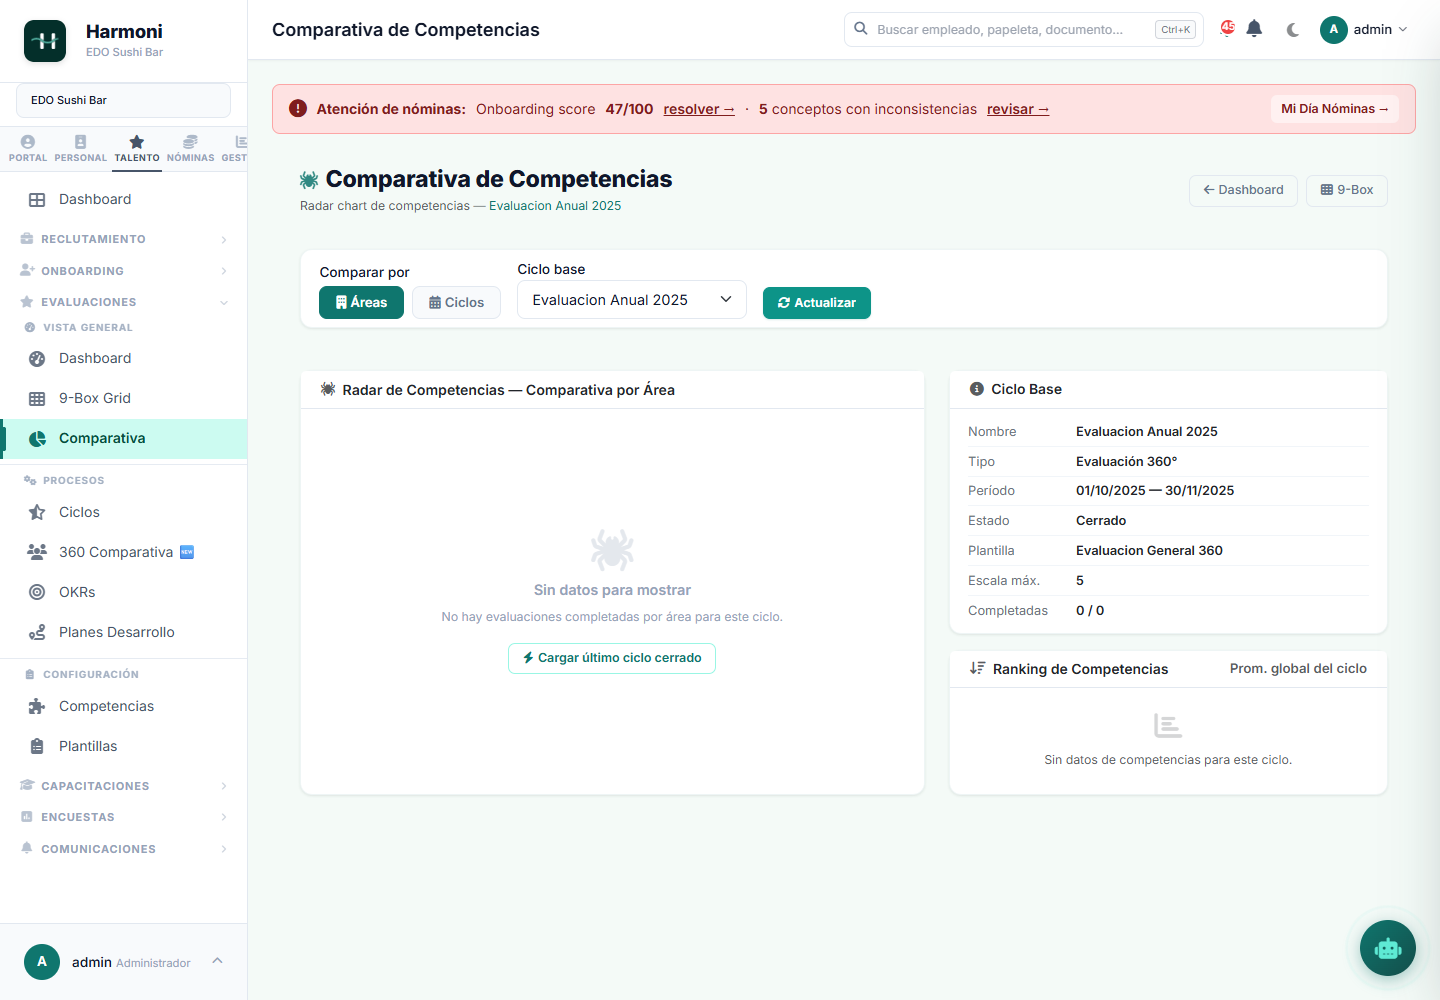
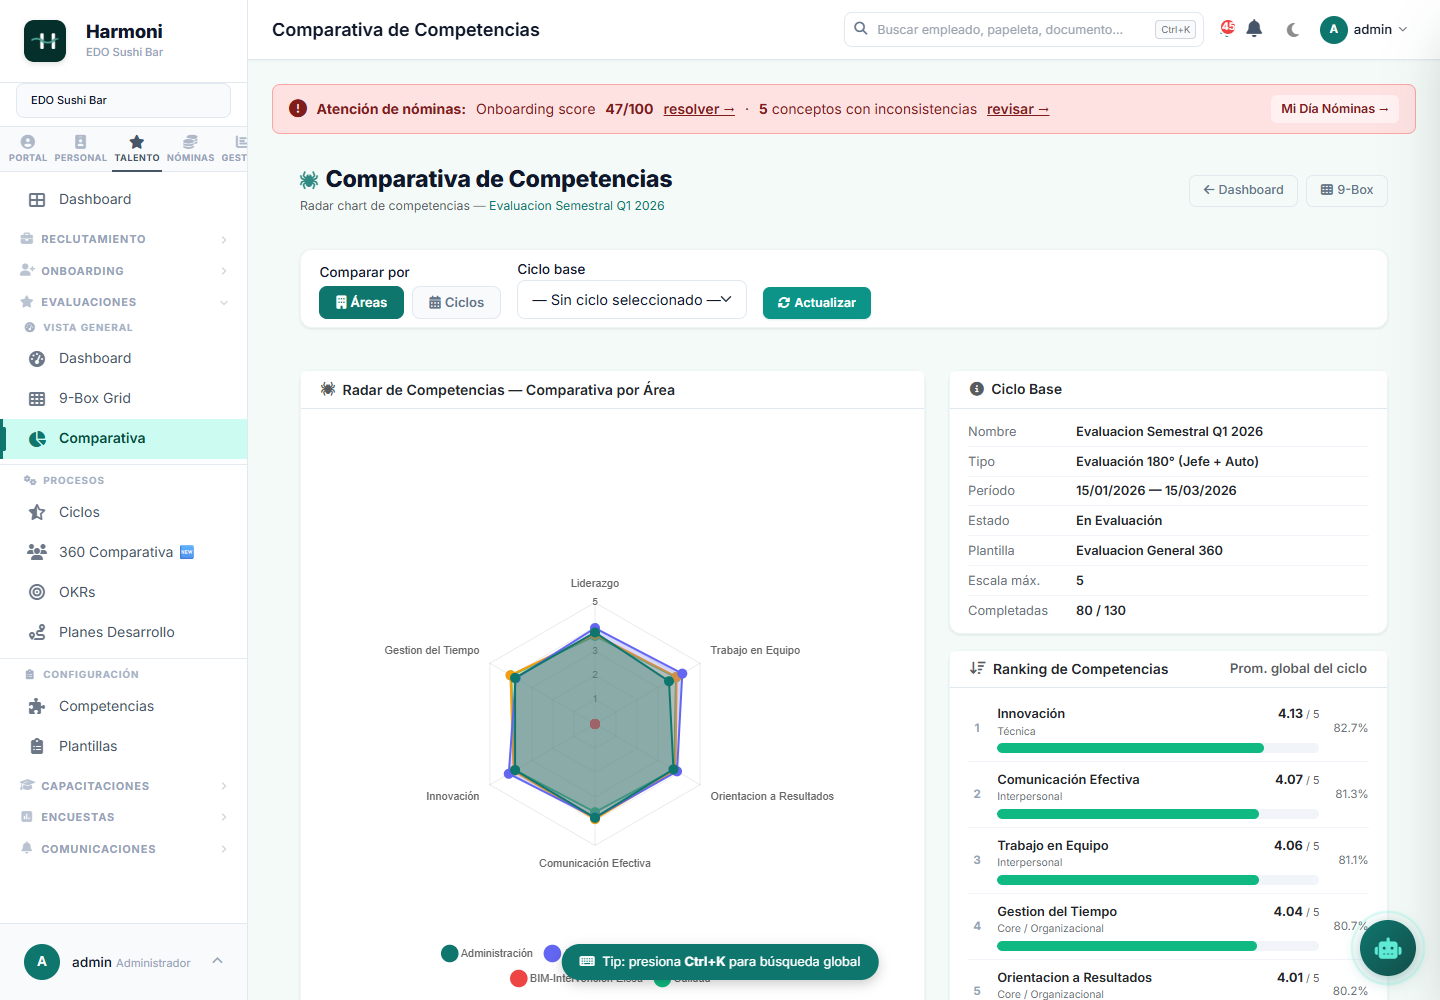
docs(manual): pobla las 2 pantallas flacas (gastro certs + comparativa)
Auditoría de las 69 capturas (scripts/audit_manual_pages.py): 67 ya tenían
datos ricos; 2 salían vacías por falta de dato transaccional en el demo:
- Capacitaciones BPM/HACCP: no había requerimientos gastro. Seed de 3
  requerimientos + 108 certs con vencimientos variados (scripts/seed_gastro_certs.py)
  → KPIs 58 vigentes / 34 por vencer / 16 vencidas.
- Evaluaciones Comparativa: el radar usaba el último ciclo CERRADO (vacío);
  recapturada con ?ciclo=4 (80 evals completadas) → radar + ranking poblados.

diff --git a/scripts/audit_manual_pages.py b/scripts/audit_manual_pages.py
@@ -1,0 +1,94 @@
+"""Audita la 'riqueza de datos' de cada página del manual.
+Para cada URL reporta: estados vacíos ('No hay'/'Sin datos'), nº de KPIs en 0,
+y nº de filas de tabla. Sirve para detectar pantallas flacas antes de capturar.
+
+Uso: .venv/Scripts/python.exe scripts/audit_manual_pages.py <SESSION_KEY> [all]
+  'all' como 2º arg → fija empresa consolidada antes de auditar.
+"""
+import sys
+import re
+import asyncio
+from playwright.async_api import async_playwright
+
+SK = sys.argv[1] if len(sys.argv) > 1 else ''
+CONSOLIDADO = len(sys.argv) > 2 and sys.argv[2] == 'all'
+BASE = 'http://localhost:8001'
+
+# (etiqueta, url) — mismas páginas que el manual
+PAGES = [
+    ('inicio', '/'),
+    ('personal_lista', '/personal/'), ('personal_detalle', '/personal/212/'),
+    ('contratar_express', '/personal/express/'), ('contratos', '/contratos/'),
+    ('organigrama', '/organigrama/'), ('roster', '/roster/matricial/'),
+    ('reportes_rrhh', '/reportes/'),
+    ('asis_dashboard', '/asistencia/'), ('asis_kpis', '/asistencia/kpis/'),
+    ('asis_matricial', '/asistencia/calendario/'), ('asis_papeletas', '/asistencia/papeletas/'),
+    ('asis_banco_horas', '/asistencia/banco-horas/'), ('asis_briefing', '/asistencia/briefing/'),
+    ('asis_export', '/asistencia/exportar/'), ('asis_import', '/asistencia/importar/'),
+    ('nom_periodos', '/nominas/'), ('nom_nuevo', '/nominas/periodos/nuevo/'),
+    ('nom_detalle', '/nominas/periodos/4/'), ('nom_boleta', '/nominas/registros/46/'),
+    ('nom_emision', '/nominas/boletas/'), ('nom_workflow', '/nominas/workflow-mes/'),
+    ('nom_agente', '/nominas/agente/'), ('nom_conceptos', '/nominas/conceptos/'),
+    ('nom_calc', '/nominas/calculadora/'), ('nom_calc_cts', '/nominas/calculadora/cts/'),
+    ('nom_calc_liq', '/nominas/calculadora/liquidacion/'), ('nom_ir5ta', '/nominas/ir5ta/'),
+    ('nom_flujo', '/nominas/flujo-caja/'), ('nom_comparativo', '/nominas/comparativo/'),
+    ('vac_panel', '/vacaciones/'), ('vac_nueva', '/vacaciones/nueva/'),
+    ('vac_permisos', '/vacaciones/permisos/'), ('vac_saldos', '/vacaciones/saldos/'),
+    ('pre_panel', '/prestamos/'), ('pre_nuevo', '/prestamos/nuevo/'), ('viaticos', '/viaticos/'),
+    ('doc_legajo', '/documentos/'), ('doc_faltantes', '/documentos/faltantes/'),
+    ('doc_constancias', '/documentos/constancias/'), ('doc_firma', '/documentos/firma/'),
+    ('doc_cese', '/documentos/cese/'),
+    ('rec_vacantes', '/reclutamiento/'), ('rec_pipeline', '/reclutamiento/pipeline/'),
+    ('rec_funnel', '/reclutamiento/funnel/'), ('rec_banco', '/reclutamiento/banco-talento/'),
+    ('rec_cv', '/reclutamiento/cv/express/'),
+    ('onb_dashboard', '/onboarding/dashboard/'), ('onb_onboarding', '/onboarding/'),
+    ('onb_offboarding', '/onboarding/offboarding/'),
+    ('eval_dashboard', '/evaluaciones/dashboard/'), ('eval_ninebox', '/evaluaciones/ninebox/'),
+    ('eval_comparativa', '/evaluaciones/comparativa/'), ('eval_okrs', '/evaluaciones/okrs/'),
+    ('cap_panel', '/capacitaciones/'), ('cap_gastro', '/capacitaciones/gastro/'),
+    ('dis_dashboard', '/disciplinaria/dashboard/'), ('dis_medidas', '/disciplinaria/'),
+    ('dis_nueva', '/disciplinaria/nueva/'),
+    ('enc_panel', '/encuestas/'),
+    ('com_notif', '/comunicaciones/'), ('com_comunicados', '/comunicaciones/comunicados/'),
+    ('sal_bandas', '/salarios/bandas/'), ('sal_grafico', '/salarios/bandas/grafico/'),
+    ('an_ejecutivo', '/sistema/dashboard/ejecutivo/'), ('an_analytics', '/analytics/'),
+    ('an_predictivo', '/analytics/predictive/'), ('an_pulse', '/empresas/pulse/'),
+]
+
+EMPTY_RE = re.compile(r'no hay|sin datos|sin registros|vac[íi]o|a[úu]n no|0 resultados|no se encontr', re.I)
+
+
+async def main():
+    async with async_playwright() as p:
+        b = await p.chromium.launch(channel='chrome', headless=True)
+        c = await b.new_context(viewport={'width': 1440, 'height': 1000})
+        await c.add_cookies([{'name': 'sessionid', 'value': SK, 'domain': 'localhost', 'path': '/'}])
+        pg = await c.new_page()
+        if False and CONSOLIDADO:
+            # fijar empresa consolidada
+            await pg.goto(BASE + '/empresas/seleccionar/?empresa_id=all', wait_until='networkidle', timeout=15000)
+        flacos = []
+        for label, url in PAGES:
+            try:
+                await pg.goto(BASE + url, wait_until='networkidle', timeout=25000)
+                await pg.wait_for_timeout(400)
+                text = (await pg.inner_text('body'))
+                empties = len(EMPTY_RE.findall(text))
+                # KPIs en 0: números aislados '0' en cards de stat
+                zeros = len(re.findall(r'(?<![\d.,])0(?![\d.,%])', text))
+                rows = await pg.eval_on_selector_all('table tbody tr', 'els => els.length')
+                thin = empties >= 2 or (rows == 0 and 'form' not in url and 'nuevo' not in url and 'crear' not in url)
+                mark = 'FLACO' if thin else 'ok'
+                line = f'  [{mark:5}] {label:20} empties={empties} zeros={zeros} rows={rows}'
+                if thin:
+                    flacos.append(line)
+                print(line)
+            except Exception as e:
+                print(f'  [ERR  ] {label:20} {type(e).__name__}: {str(e)[:50]}')
+        await b.close()
+        print(f'\n=== FLACOS: {len(flacos)} ===')
+        for f in flacos:
+            print(f)
+
+
+asyncio.run(main())

diff --git a/scripts/seed_gastro_certs.py b/scripts/seed_gastro_certs.py
@@ -1,0 +1,51 @@
+"""Seed demo: certificaciones BPM/HACCP/Sanitario para poblar el panel gastro.
+Idempotente. Solo datos de demostración (local).
+"""
+from datetime import date, timedelta
+from capacitaciones.models import RequerimientoCapacitacion, CertificacionTrabajador
+from personal.models import Personal
+
+REQS = [
+    ('BPM - Buenas Prácticas de Manufactura', 'Certificación obligatoria de BPM para personal de cocina y servicio.', 'D.S. 007-98-SA'),
+    ('HACCP - Análisis de Peligros y Puntos Críticos', 'Sistema HACCP para inocuidad alimentaria.', 'R.M. 449-2006/MINSA'),
+    ('Manipulación de Alimentos - Carné Sanitario', 'Carné de manipulador de alimentos vigente.', 'D.S. 007-98-SA'),
+]
+
+reqs = []
+for nombre, desc, base in REQS:
+    r, _ = RequerimientoCapacitacion.objects.get_or_create(
+        nombre=nombre,
+        defaults=dict(descripcion=desc, aplica_todos=True, frecuencia='ANUAL',
+                      horas_minimas=8, vigencia_dias=365, base_legal=base,
+                      obligatorio=True, activo=True),
+    )
+    reqs.append(r)
+
+hoy = date.today()
+# Vencimientos variados → poblar KPIs vigente / por_vencer / vencida / faltante
+# (dejamos ~20% sin cert para que 'faltante' > 0)
+trabajadores = list(Personal.objects.filter(estado='Activo').order_by('apellidos_nombres')[:45])
+creadas = 0
+for i, emp in enumerate(trabajadores):
+    if i % 5 == 4:
+        continue  # 1 de cada 5 sin certificación (faltante)
+    for j, req in enumerate(reqs):
+        # patrón de vencimiento por índice
+        mod = (i + j) % 6
+        if mod in (0, 1, 2):
+            venc = hoy + timedelta(days=120 + mod * 40)   # vigente
+        elif mod in (3, 4):
+            venc = hoy + timedelta(days=10 + mod)          # por vencer (<=30d)
+        else:
+            venc = hoy - timedelta(days=15)                # vencida
+        obt = venc - timedelta(days=365)
+        _, was_new = CertificacionTrabajador.objects.get_or_create(
+            personal=emp, requerimiento=req,
+            defaults=dict(fecha_obtencion=obt, fecha_vencimiento=venc,
+                          estado='VIGENTE'),
+        )
+        if was_new:
+            creadas += 1
+
+print(f'Requerimientos gastro: {len(reqs)} | Certificaciones nuevas: {creadas}')
+print(f'Total CertificacionTrabajador: {CertificacionTrabajador.objects.count()}')
